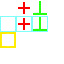
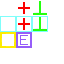
オブジェクトガイドにエネミー配置

Changed region(s): [[0.25, 0.5, 0.5, 0.75]]

diff --git a/Solution/AceEditor/ObjectMenu.h b/Solution/AceEditor/ObjectMenu.h
@@ -21,7 +21,8 @@ private:
 		MAX_TAG
 	};
 private:
-	unsigned char getObj( int idx );
+	unsigned char getObj( int idx ) const;
+	unsigned char getEnemy( int idx );
 private:
 	bool _active;
 	TAG _select_tag;
